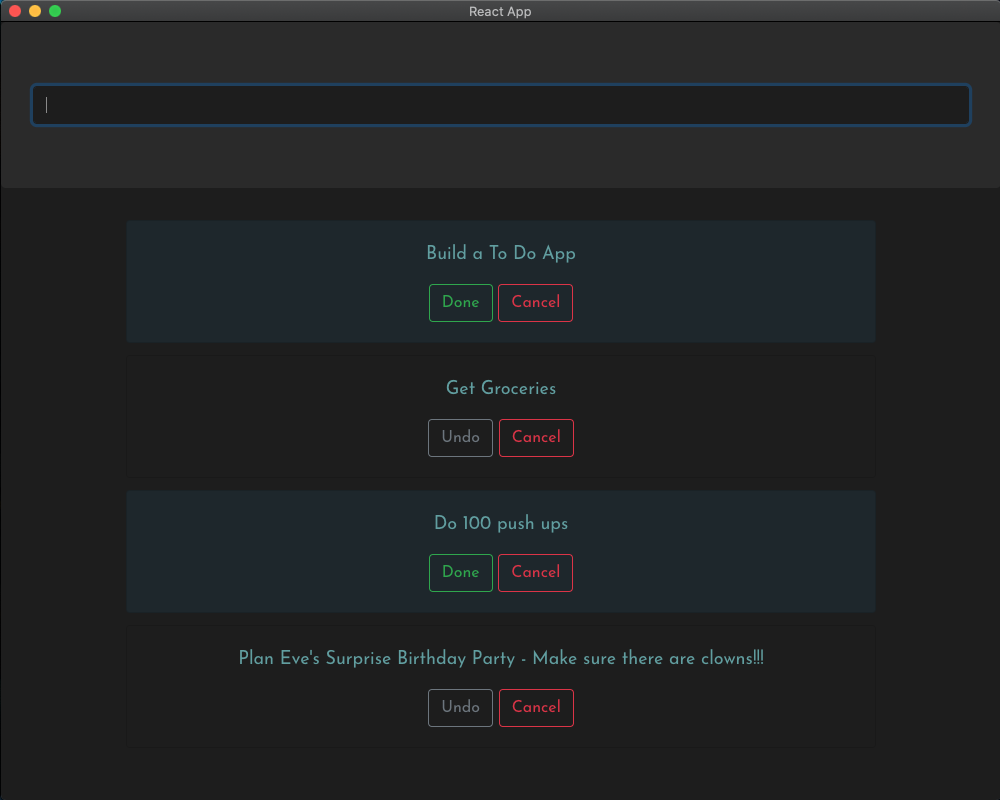
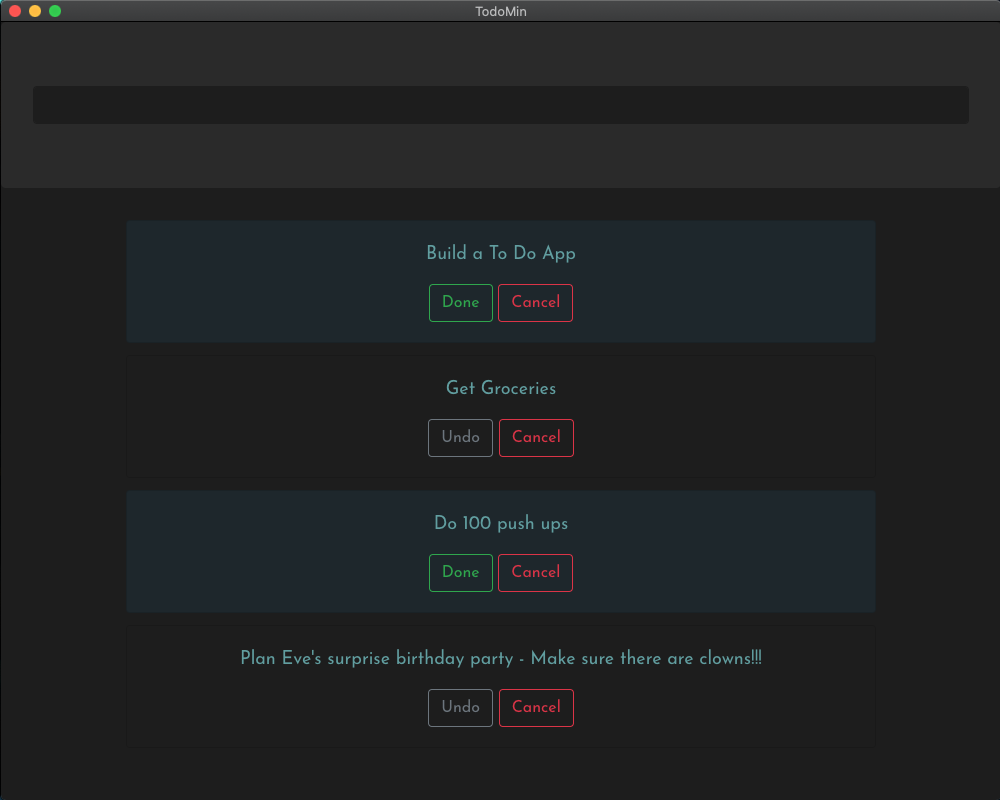
update app screenshot

diff --git a/public/index.html b/public/index.html
@@ -24,7 +24,7 @@
       work correctly both with client-side routing and a non-root public URL.
       Learn how to configure a non-root public URL by running `npm run build`.
     -->
-    <title>React App</title>
+    <title>TodoMin</title>
   </head>
   <body>
     <noscript>You need to enable JavaScript to run this app.</noscript>
